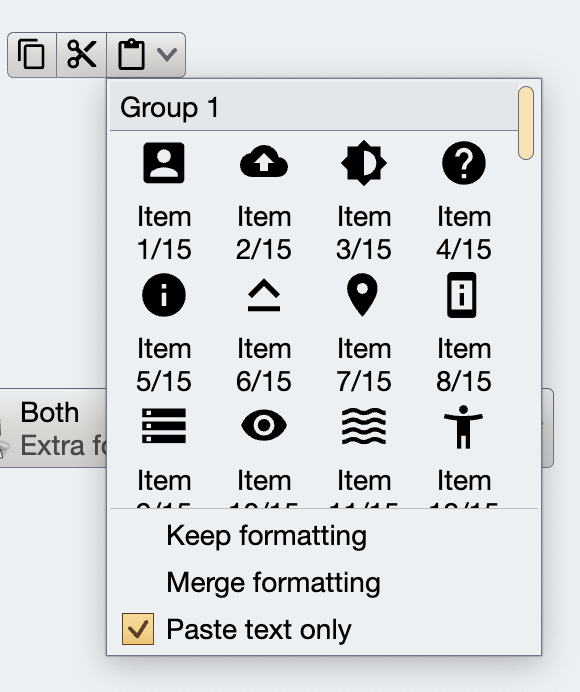
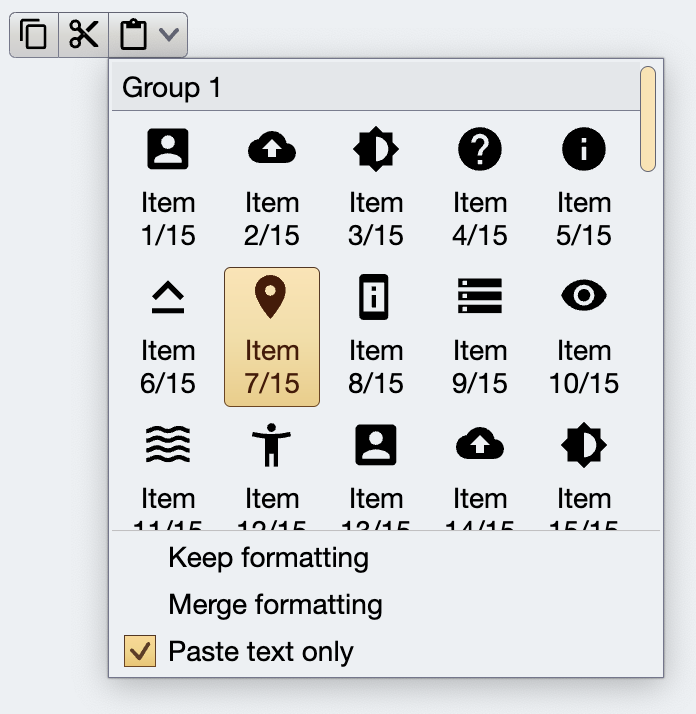
Fix layout of command panel in command popup menu
Use resolved text style during the layout pass
Add `commandContentPadding` to `CommandPanelPresentationModel` and set that on each command button in the panel, instead of the `contentPadding` that is applied around the panel content

Changed region(s): [[0.0, 0.0, 0.9621, 0.9711]]

diff --git a/demo/src/desktopMain/kotlin/org/pushingpixels/aurora/demo/AuroraCommandDemo.kt b/demo/src/desktopMain/kotlin/org/pushingpixels/aurora/demo/AuroraCommandDemo.kt
@@ -739,41 +739,41 @@ fun AuroraApplicationScope.DemoCommandContent(
                 )
             }
 
-            DemoCommandRow(
-                resourceBundle.value.getString("CommandButton.state.small"),
-                commandActionOnly,
-                commandSecondaryOnly,
-                commandActionAndSecondary,
-                CommandButtonPresentationState.Small,
-                overlays
-            )
-
-            DemoCommandRow(
-                resourceBundle.value.getString("CommandButton.state.medium"),
-                commandActionOnly,
-                commandSecondaryOnly,
-                commandActionAndSecondary,
-                CommandButtonPresentationState.Medium,
-                overlays
-            )
-
-            DemoCommandRow(
-                resourceBundle.value.getString("CommandButton.state.tile"),
-                commandActionOnly,
-                commandSecondaryOnly,
-                commandActionAndSecondary,
-                CommandButtonPresentationState.Tile,
-                overlays
-            )
-
-            DemoCommandRow(
-                resourceBundle.value.getString("CommandButton.state.big"),
-                commandActionOnly,
-                commandSecondaryOnly,
-                commandActionAndSecondary,
-                CommandButtonPresentationState.Big,
-                overlays
-            )
+//            DemoCommandRow(
+//                resourceBundle.value.getString("CommandButton.state.small"),
+//                commandActionOnly,
+//                commandSecondaryOnly,
+//                commandActionAndSecondary,
+//                CommandButtonPresentationState.Small,
+//                overlays
+//            )
+//
+//            DemoCommandRow(
+//                resourceBundle.value.getString("CommandButton.state.medium"),
+//                commandActionOnly,
+//                commandSecondaryOnly,
+//                commandActionAndSecondary,
+//                CommandButtonPresentationState.Medium,
+//                overlays
+//            )
+//
+//            DemoCommandRow(
+//                resourceBundle.value.getString("CommandButton.state.tile"),
+//                commandActionOnly,
+//                commandSecondaryOnly,
+//                commandActionAndSecondary,
+//                CommandButtonPresentationState.Tile,
+//                overlays
+//            )
+//
+//            DemoCommandRow(
+//                resourceBundle.value.getString("CommandButton.state.big"),
+//                commandActionOnly,
+//                commandSecondaryOnly,
+//                commandActionAndSecondary,
+//                CommandButtonPresentationState.Big,
+//                overlays
+//            )
         }
     }
 }

diff --git a/component/src/desktopMain/kotlin/org/pushingpixels/aurora/component/AuroraCommandButtonPanel.kt b/component/src/desktopMain/kotlin/org/pushingpixels/aurora/component/AuroraCommandButtonPanel.kt
@@ -33,6 +33,7 @@ import androidx.compose.ui.layout.Placeable
 import androidx.compose.ui.platform.LocalDensity
 import androidx.compose.ui.platform.LocalFontLoader
 import androidx.compose.ui.platform.LocalLayoutDirection
+import androidx.compose.ui.text.resolveDefaults
 import androidx.compose.ui.unit.Constraints
 import androidx.compose.ui.unit.Density
 import androidx.compose.ui.unit.LayoutDirection
@@ -128,16 +129,17 @@ internal fun AuroraCommandButtonPanel(
     val resourceLoader = LocalFontLoader.current
     val window = LocalWindow.current
 
+    val resolvedTextStyle = remember { resolveDefaults(textStyle, layoutDirection) }
     val layoutManager = presentationModel.commandPresentationState.createLayoutManager(
         layoutDirection = layoutDirection,
         density = density,
-        textStyle = textStyle,
+        textStyle = resolvedTextStyle,
         resourceLoader = resourceLoader
     )
 
     val baseCommandButtonPresentationModel =
         CommandButtonPresentationModel(
-            contentPadding = presentationModel.contentPadding,
+            contentPadding = presentationModel.commandContentPadding,
             presentationState = presentationModel.commandPresentationState,
             iconDimension = presentationModel.commandIconDimension,
             isMenu = presentationModel.isMenu,
@@ -571,7 +573,7 @@ internal fun getPreferredCommandButtonPanelSize(
 
     val baseCommandButtonPresentationModel =
         CommandButtonPresentationModel(
-            contentPadding = presentationModel.contentPadding,
+            contentPadding = presentationModel.commandContentPadding,
             presentationState = presentationModel.commandPresentationState,
             iconDimension = presentationModel.commandIconDimension,
             isMenu = presentationModel.isMenu,

diff --git a/component/src/desktopMain/kotlin/org/pushingpixels/aurora/component/model/CommandPanelModels.kt b/component/src/desktopMain/kotlin/org/pushingpixels/aurora/component/model/CommandPanelModels.kt
@@ -50,6 +50,7 @@ data class CommandPanelPresentationModel(
     val showGroupLabels: Boolean = true,
     val commandPresentationState: CommandButtonPresentationState,
     val commandIconDimension: Dp = 0.dp,
+    val commandContentPadding: PaddingValues = CommandButtonSizingConstants.CompactButtonContentPadding,
     val commandTextStyle: TextStyle? = null,
     val commandHorizontalAlignment: HorizontalAlignment = HorizontalAlignment.Center,
     val commandHorizontalGapScaleFactor: Float = 1.0f,

diff --git a/docs/component/CommandPopupMenu.md b/docs/component/CommandPopupMenu.md
@@ -4,7 +4,7 @@
 
 Command menu is a multi-tiered collection of commands. Any command in any tier can have associated secondary content that is, in turn, its own command menu - essentially creating traditional cascading menus. At *any tier*, a command menu can have a vertically scrollable [command panel](CommandPanel.md) - seen in the following screenshot above as a 4-column grid of large buttons.
 
-<img src="https://raw.githubusercontent.com/kirill-grouchnikov/aurora/icicle/docs/images/component/walkthrough/command-secondary-complex.png" width="265" border=0/>
+<img src="https://raw.githubusercontent.com/kirill-grouchnikov/aurora/icicle/docs/images/component/walkthrough/command-secondary-complex.png" width="348" border=0/>
 
 ### Content model
 
@@ -30,7 +30,7 @@ The `menuPresentationState` attribute determines the visual presentation of the 
 
 Let's see the code behind this popup menu:
 
-<img src="https://raw.githubusercontent.com/kirill-grouchnikov/aurora/icicle/docs/images/component/walkthrough/command-secondary-complex.png" width="265" border=0/>
+<img src="https://raw.githubusercontent.com/kirill-grouchnikov/aurora/icicle/docs/images/component/walkthrough/command-secondary-complex.png" width="348" border=0/>
 
 First we create the same command panel content model as in the [previous example](CommandPanel.md#sample-code):
 
@@ -132,7 +132,7 @@ Note how, in addition to the content and the presentation models, we also have t
 
 What do we want to express in our particular case?
 
-<img src="https://raw.githubusercontent.com/kirill-grouchnikov/aurora/icicle/docs/images/component/walkthrough/command-secondary-complex.png" width="265" border=0/>
+<img src="https://raw.githubusercontent.com/kirill-grouchnikov/aurora/icicle/docs/images/component/walkthrough/command-secondary-complex.png" width="348" border=0/>
 
 We want to say that for one particular command in the content model of the whole command button strip, we want to use a specific `CommandPopupMenuPresentationModel` (the one with at most five columns and three rows of content, and specific layout of each command button in it). Here is how the full projection definition of this command button strip looks like:
 
